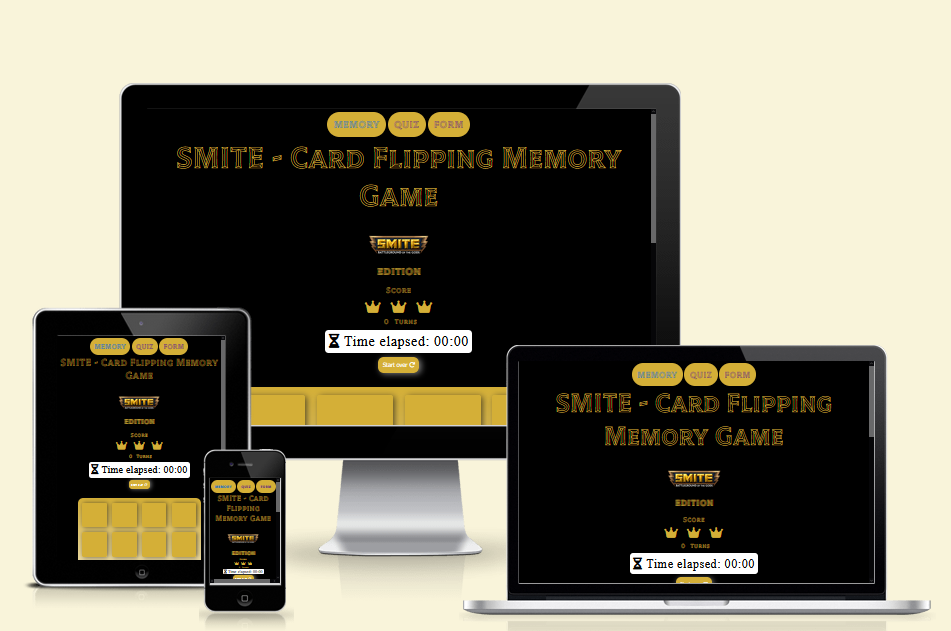
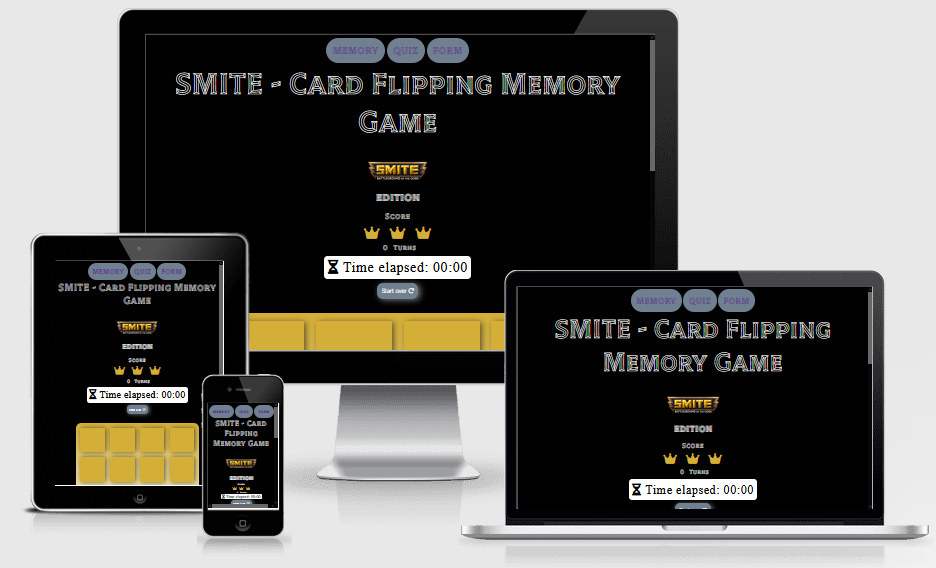
make additional changes to colour palette (fix)

diff --git a/assets/css/styles.css b/assets/css/styles.css
@@ -55,6 +55,7 @@ body{
     display: inline-block;
     padding: 20px;
     background-color: slategray;
+    font-family: 'Times New Roman', Times, serif;
 }
 
 /** Quiz design elements **/
@@ -233,15 +234,19 @@ h1{
 }
 
 h2{
+    font-family: 'Times New Roman', Times, serif;
     font-size: 2em;
     font-weight: 600;
     color: #fff;
 }
 
 h3, h4{
-    font-weight: 400;
+    font-family: 'Times New Roman', Times, serif;
+    font-size: 1.1em;
+    font-weight: 900;
     color: #fff;
 }
+
 
 /* logo img style */
 .smite-logo{
@@ -276,12 +281,14 @@ p{
 
 /* turns text */
 .turns-count{
+    font-family: 'Times New Roman', Times, serif;
     padding: 0.5em;
     color: #fff;
 }
 
 /* turns number text */
 .turns-color{
+    font-family: 'Times New Roman', Times, serif;
     color: #fff;
 }
 

diff --git a/README.md b/README.md
@@ -107,7 +107,7 @@ The goal of the project was to create a fun, recognisable and interactive set of
 - The design choice for the website is based on the game 'SMITE', with the colour and visual elements for the site being similar to that of what can be seen the actual video game itself.
 
 ### Colour Scheme
-- To expand on the colour of the website, it has been kept consistent across all pages and is mainly inspired by the logo of the game itself. This being a black and yellow palette, black being used for the background elements whilst yellow is used for all the page elements such as boxes and text.
+- To expand on the colour of the website, it has been kept consistent across all pages and is mainly inspired by the logo of the game itself. This being a black, slate grey and yellow palette, black being used for the background elements whilst the slate grey and yellow are used for all the page elements such as boxes and text.
 - The idea behind the colour palette was to have the user be able to see all the relevant information on the screen easily whilst also potentially seeing that it matches the game's logo colour palette too.
 
 ### Fonts
